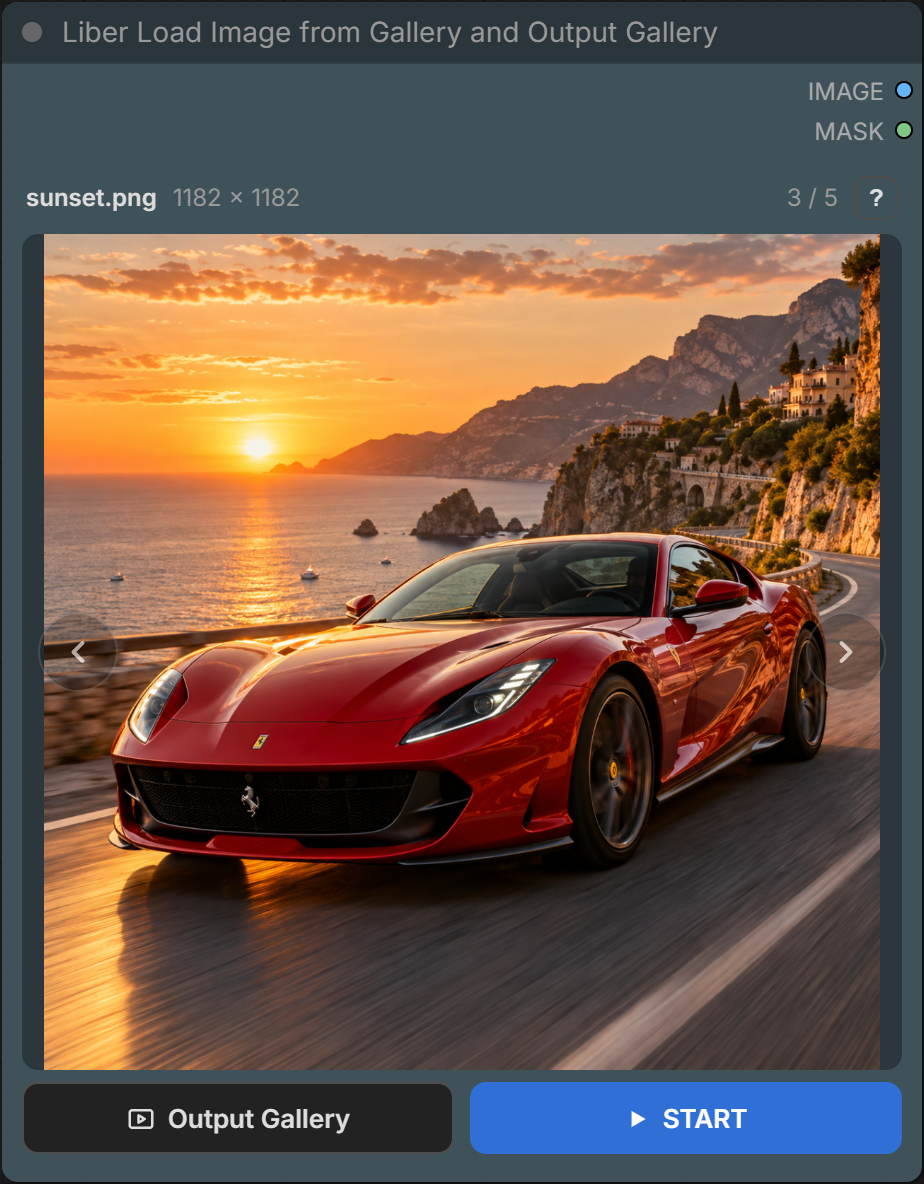
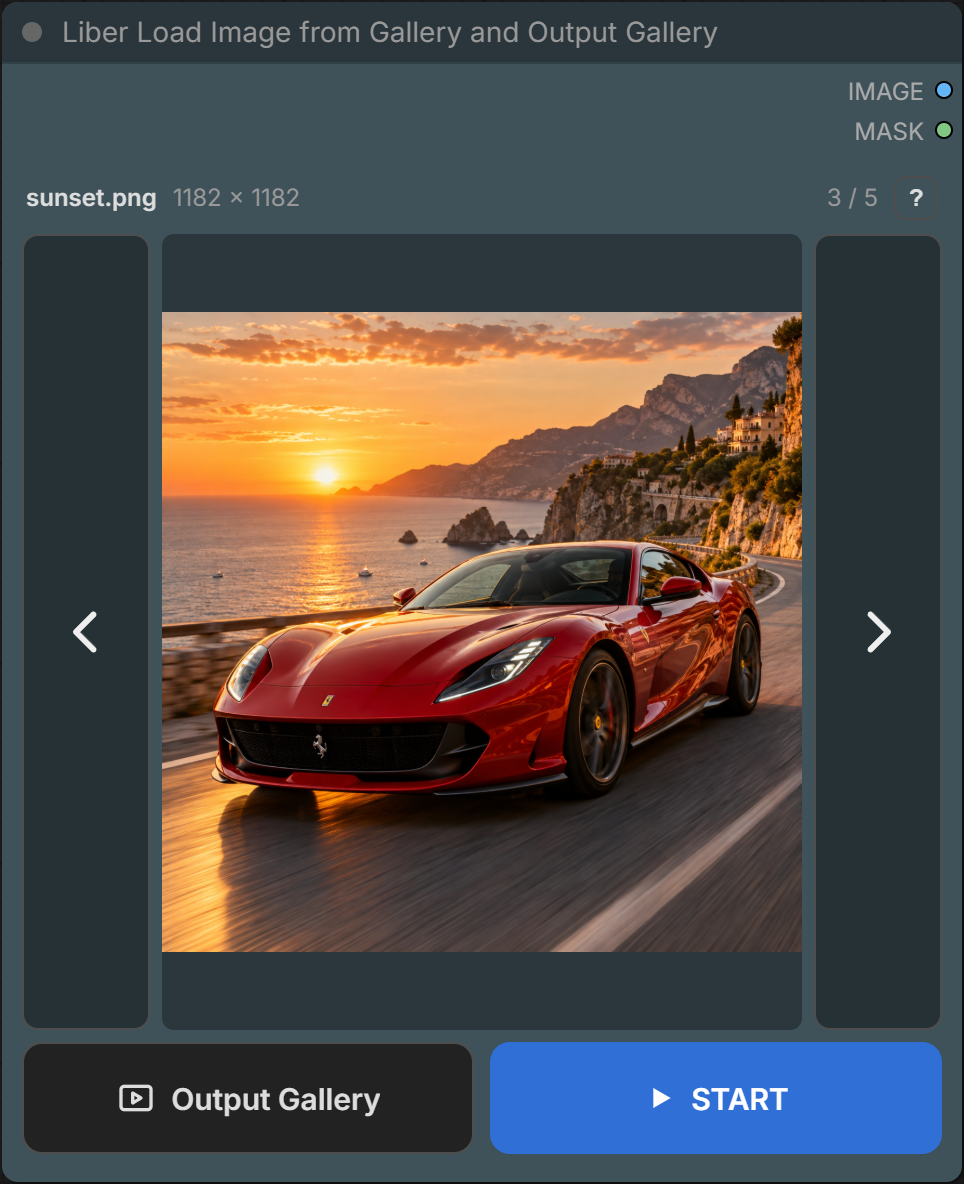
Bring back large browse, Output Gallery and START buttons
The node panel's ‹ › arrows were 40 px circles over the image edges,
hard to hit by touch (e.g. a tablet over RDP). They are now tall buttons
beside the image, as in the old canvas layout: full preview height, all
the free width beside the fitted image, at least 14% of the width
(44–110 px). Output Gallery and START are 56 px tall again with larger
text and icons; long labels end with an ellipsis. New nodes start at
420×500 so the image keeps its room.

diff --git a/web/node_panel.js b/web/node_panel.js
@@ -2,7 +2,7 @@
 // The node's whole UI as one HTML (DOM) widget, so it works the same on the
 // classic LiteGraph canvas and in Nodes 2.0 (Vue nodes):
 //   name · resolution · position  [?]
-//   the image (click: gallery, hold: ×5 zoom) with ‹ › arrows
+//   [‹]  the image (click: gallery, hold: ×5 zoom)  [›]
 //   [Output Gallery] [START]
 // The stock widgets stay on the node for serialization and behaviour but are
 // not drawn on it: the image combo and upload button remain in the properties
@@ -15,8 +15,11 @@ const START_WIDGET = "▶ СТАРТ";
 const OUTPUT_WIDGET = "Галерея output";
 const PREVIEW_WIDGET = "$$canvas-image-preview";
 const MIN_PANEL_HEIGHT = 240;
-const DEFAULT_SIZE = [400, 460];
+const DEFAULT_SIZE = [420, 500];
 const CHANGE_CHECK_MS = 400;
+// The ‹ › buttons take the stage's full height and all the width beside the
+// fitted image, but never less than this share of the stage (and 44–110 px).
+const SIDE_SHARE = 0.14, SIDE_MIN_PX = 44, SIDE_MAX_PX = 110, SIDE_GAP = 6;
 
 const TEXT = {
     ru: { output: "Галерея output", start: "СТАРТ", help: "Инструкция", prev: "Предыдущее изображение", next: "Следующее изображение",
@@ -37,17 +40,22 @@ function injectStyles() {
 .cig-np-pos{margin-left:auto}
 .cig-np-help{flex:none;width:22px;height:22px;padding:0;border:1px solid var(--border-color,#5a5a5a);border-radius:6px;background:transparent;color:var(--input-text,#ddd);font:700 12px/20px Arial,sans-serif;cursor:pointer}
 .cig-np-help:hover{border-color:var(--input-text,#ddd)}
-.cig-np-stage{position:relative;flex:1 1 auto;min-height:120px;border-radius:8px;background:rgba(0,0,0,.32);overflow:hidden;display:flex;align-items:center;justify-content:center;cursor:pointer;-webkit-touch-callout:none;user-select:none}
-.cig-np-stage img{max-width:100%;max-height:100%;width:auto;height:auto;object-fit:contain;display:block;-webkit-user-drag:none;pointer-events:none}
+.cig-np-stage{--cig-np-side:44px;position:relative;flex:1 1 auto;min-height:120px;cursor:pointer;-webkit-touch-callout:none;user-select:none}
+.cig-np-view{position:absolute;top:0;bottom:0;left:calc(var(--cig-np-side) + ${SIDE_GAP}px);right:calc(var(--cig-np-side) + ${SIDE_GAP}px);border-radius:6px;background:rgba(0,0,0,.32);overflow:hidden;display:flex;align-items:center;justify-content:center}
+.cig-np-view img{width:100%;height:100%;object-fit:contain;display:block;-webkit-user-drag:none;pointer-events:none}
 .cig-np-empty{padding:12px;color:var(--descrip-text,#a3a3a3);text-align:center}
-.cig-np-arrow{position:absolute;top:50%;width:40px;height:40px;margin-top:-20px;padding:0;border:1px solid rgba(255,255,255,.24);border-radius:50%;background:rgba(10,10,10,.45);color:#fff;display:flex;align-items:center;justify-content:center;cursor:pointer;opacity:.6;transition:opacity .12s,background .12s}
-.cig-np-stage:hover .cig-np-arrow{opacity:1}
-.cig-np-arrow:hover{background:rgba(10,10,10,.72);border-color:#5b9bff}
-.cig-np-arrow:disabled{opacity:.18;cursor:default}
-.cig-np-prev{left:8px}.cig-np-next{right:8px}
+.cig-np-arrow{position:absolute;top:0;bottom:0;width:var(--cig-np-side);padding:0;border:1px solid var(--border-color,#4e4e4e);border-radius:8px;background:rgba(0,0,0,.4);color:#eee;display:flex;align-items:center;justify-content:center;cursor:pointer;touch-action:manipulation;transition:background .12s,border-color .12s}
+.cig-np-arrow:hover{background:rgba(0,0,0,.62);border-color:#5b9bff;color:#fff}
+.cig-np-arrow:active{background:rgba(91,155,255,.24)}
+.cig-np-arrow:disabled{opacity:.35;cursor:default;background:rgba(0,0,0,.25);border-color:var(--border-color,#4e4e4e)}
+.cig-np-arrow svg{width:min(30px,60%);height:auto}
+.cig-np-prev{left:0}.cig-np-next{right:0}
 .cig-np-actions{display:flex;gap:8px;flex:none}
-.cig-np-btn{flex:1 1 0;min-width:0;height:36px;border:1px solid var(--border-color,#4e4e4e);border-radius:8px;background:var(--comfy-input-bg,#222);color:var(--input-text,#ddd);font:600 13px Inter,Arial,sans-serif;cursor:pointer;display:inline-flex;align-items:center;justify-content:center;gap:6px;white-space:nowrap;overflow:hidden}
+.cig-np-btn{flex:1 1 0;min-width:0;height:56px;padding:0 8px;border:1px solid var(--border-color,#4e4e4e);border-radius:10px;background:var(--comfy-input-bg,#222);color:var(--input-text,#ddd);font:600 15px Inter,Arial,sans-serif;cursor:pointer;display:inline-flex;align-items:center;justify-content:center;gap:8px;white-space:nowrap;overflow:hidden;touch-action:manipulation}
 .cig-np-btn:hover{filter:brightness(1.18)}
+.cig-np-btn:active{filter:brightness(.92)}
+.cig-np-btn svg{flex:none}
+.cig-np-label{min-width:0;overflow:hidden;text-overflow:ellipsis}
 .cig-np-btn.cig-np-start{background:#2f6fd6;border-color:#2f6fd6;color:#fff}
 .cig-np-btn:disabled{opacity:.45;cursor:default;filter:none}
 `;
@@ -122,14 +130,13 @@ export function installNodePanel(node, deps) {
             <button type="button" class="cig-np-help" title="${t.help}" aria-label="${t.help}">?</button>
         </div>
         <div class="cig-np-stage" role="button" tabindex="0" title="${t.open}" aria-label="${t.open}">
-            <img alt="" draggable="false">
-            <div class="cig-np-empty"></div>
-            <button type="button" class="cig-np-arrow cig-np-prev" aria-label="${t.prev}" title="${t.prev}"><svg width="18" height="18" viewBox="0 0 24 24" fill="none" stroke="currentColor" stroke-width="2.6" stroke-linecap="round" stroke-linejoin="round" aria-hidden="true"><path d="m15 6-6 6 6 6"/></svg></button>
-            <button type="button" class="cig-np-arrow cig-np-next" aria-label="${t.next}" title="${t.next}"><svg width="18" height="18" viewBox="0 0 24 24" fill="none" stroke="currentColor" stroke-width="2.6" stroke-linecap="round" stroke-linejoin="round" aria-hidden="true"><path d="m9 6 6 6-6 6"/></svg></button>
+            <button type="button" class="cig-np-arrow cig-np-prev" aria-label="${t.prev}" title="${t.prev}"><svg viewBox="0 0 24 24" fill="none" stroke="currentColor" stroke-width="2.4" stroke-linecap="round" stroke-linejoin="round" aria-hidden="true"><path d="m15 5-7 7 7 7"/></svg></button>
+            <div class="cig-np-view"><img alt="" draggable="false"><div class="cig-np-empty"></div></div>
+            <button type="button" class="cig-np-arrow cig-np-next" aria-label="${t.next}" title="${t.next}"><svg viewBox="0 0 24 24" fill="none" stroke="currentColor" stroke-width="2.4" stroke-linecap="round" stroke-linejoin="round" aria-hidden="true"><path d="m9 5 7 7-7 7"/></svg></button>
         </div>
         <div class="cig-np-actions">
-            <button type="button" class="cig-np-btn cig-np-output"><svg width="15" height="15" viewBox="0 0 24 24" fill="none" stroke="currentColor" stroke-width="2" stroke-linejoin="round" aria-hidden="true"><rect x="3" y="5" width="18" height="14" rx="2"/><path d="m10 9 5 3-5 3z"/></svg>${t.output}</button>
-            <button type="button" class="cig-np-btn cig-np-start"><svg width="13" height="13" viewBox="0 0 24 24" fill="currentColor" aria-hidden="true"><path d="M7 4.5v15l13-7.5z"/></svg>${t.start}</button>
+            <button type="button" class="cig-np-btn cig-np-output"><svg width="20" height="20" viewBox="0 0 24 24" fill="none" stroke="currentColor" stroke-width="2" stroke-linejoin="round" aria-hidden="true"><rect x="3" y="5" width="18" height="14" rx="2"/><path d="m10 9 5 3-5 3z"/></svg><span class="cig-np-label">${t.output}</span></button>
+            <button type="button" class="cig-np-btn cig-np-start"><svg width="16" height="16" viewBox="0 0 24 24" fill="currentColor" aria-hidden="true"><path d="M7 4.5v15l13-7.5z"/></svg><span class="cig-np-label">${t.start}</span></button>
         </div>`;
     const q = s => el.querySelector(s);
     const nameEl = q(".cig-np-name"), dimsEl = q(".cig-np-dims"), posEl = q(".cig-np-pos");
@@ -171,19 +178,44 @@ export function installNodePanel(node, deps) {
                 img.style.display = "none";
                 emptyEl.style.display = "";
                 emptyEl.textContent = t.empty;
+                layoutSides();
             }
         }
         posEl.textContent = s.count > 1 && s.index >= 0 ? `${s.index + 1} / ${s.count}` : "";
         prev.disabled = next.disabled = !s.canNavigate;
     }
+    // Buttons fill the space beside the image, like the old canvas layout, so
+    // they stay large and easy to hit with a finger. Recomputed only on load
+    // and on stage resize.
+    let side = -1;
+    function layoutSides() {
+        const w = stage.clientWidth, h = stage.clientHeight;
+        if (!w || !h) return;
+        const min = Math.round(Math.min(SIDE_MAX_PX, Math.max(SIDE_MIN_PX, w * SIDE_SHARE)));
+        let next = min;
+        const nw = img.naturalWidth, nh = img.naturalHeight;
+        if (nw && nh && img.style.display !== "none") {
+            const fit = Math.min((w - 2 * (min + SIDE_GAP)) / nw, h / nh);
+            next = Math.max(min, Math.floor((w - nw * fit) / 2 - SIDE_GAP));
+        }
+        if (next !== side) {
+            side = next;
+            stage.style.setProperty("--cig-np-side", `${side}px`);
+        }
+    }
+    const resizeObserver = typeof ResizeObserver === "function" ? new ResizeObserver(layoutSides) : null;
+    resizeObserver?.observe(stage);
+
     img.addEventListener("load", () => {
         if (img.naturalWidth) dimsEl.textContent = `${img.naturalWidth} × ${img.naturalHeight}`;
+        layoutSides();
     });
     img.addEventListener("error", () => {
         if (!shownValue) return;
         img.style.display = "none";
         emptyEl.style.display = "";
         emptyEl.textContent = t.failed;
+        layoutSides();
     });
 
     // --- interaction
@@ -229,6 +261,7 @@ export function installNodePanel(node, deps) {
     const originalRemoved = node.onRemoved;
     node.onRemoved = function(...args) {
         clearInterval(timer);
+        resizeObserver?.disconnect();
         unsubscribe?.();
         for (const [method, original, wrapper] of wrapped) if (node[method] === wrapper) node[method] = original;
         delete node.__cigNodePanel;

diff --git a/web/help_scenarios.js b/web/help_scenarios.js
@@ -36,10 +36,10 @@ const EN = {
         {
             n: 2, title: "Browse images right in the node",
             steps: [
-                "Click **‹** or **›** on the sides of the node preview.",
+                "Click or tap **‹** or **›** — the tall buttons on the sides of the node preview.",
             ],
             notes: [
-                "The arrows follow the gallery's sorting and favorites. They are dimmed when there are fewer than two images to browse. The line above the image shows the position, e.g. **3 / 12**.",
+                "The arrows follow the gallery's sorting and favorites. The buttons fill the space beside the image, so they are easy to hit with a finger; they are dimmed when there are fewer than two images to browse. The line above the image shows the position, e.g. **3 / 12**.",
                 "If the image was chosen with **Subfolders** on (scenario 7), the arrows walk the same list, subfolders included.",
             ],
         },
@@ -197,10 +197,10 @@ const RU = {
         {
             n: 2, title: "Листать изображения прямо в ноде",
             steps: [
-                "Нажимайте **‹** или **›** по бокам превью в ноде.",
+                "Нажимайте **‹** или **›** — высокие кнопки по бокам превью в ноде.",
             ],
             notes: [
-                "Стрелки следуют сортировке и избранному галереи. Если изображений меньше двух, стрелки приглушены. Строка над изображением показывает позицию, например **3 / 12**.",
+                "Стрелки следуют сортировке и избранному галереи. Кнопки занимают всё место по бокам изображения, в них легко попасть пальцем; если изображений меньше двух, они приглушены. Строка над изображением показывает позицию, например **3 / 12**.",
                 "Если изображение выбрано при включённых **Подпапках** (сценарий 7), стрелки листают тот же список вместе с подпапками.",
             ],
         },

diff --git a/README_RU.md b/README_RU.md
@@ -38,9 +38,9 @@
 
 ### Сценарий 2. Листать изображения прямо в ноде
 
-1. Нажимайте **‹** (предыдущее) или **›** (следующее) по бокам превью в ноде.
+1. Нажимайте **‹** (предыдущее) или **›** (следующее) — высокие кнопки по бокам превью в ноде.
 
-Список файлов загружается автоматически при открытии workflow и смене изображения — предварительно открывать галерею не нужно. Стрелки следуют сортировке и избранному галереи. Если листать нечего (изображений меньше двух), стрелки приглушены; они стоят по бокам области изображения при любых его пропорциях. Строка над изображением показывает позицию, например **3 / 12**.
+Список файлов загружается автоматически при открытии workflow и смене изображения — предварительно открывать галерею не нужно. Стрелки следуют сортировке и избранному галереи. Кнопки занимают всю высоту превью и всё свободное место по бокам изображения, поэтому в них легко попасть мышью или пальцем; если листать нечего (изображений меньше двух), они приглушены. Строка над изображением показывает позицию, например **3 / 12**.
 
 Если изображение выбрано при включённых **Подпапках** (сценарий 7), стрелки листают тот же список вместе с подпапками.
 

diff --git a/README.md b/README.md
@@ -38,9 +38,9 @@ The image is loaded into the node and the gallery closes. The **✕** button clo
 
 ### Scenario 2. Browse images right in the node
 
-1. Click **‹** (previous) or **›** (next) on the sides of the node preview.
+1. Click or tap **‹** (previous) or **›** (next) — the tall buttons on the sides of the node preview.
 
-The file list loads automatically when the workflow opens or the image changes — you do not need to open the gallery first. The arrows follow the gallery's sorting and favorites. They are dimmed when there are fewer than two images to browse; they sit on the sides of the image area whatever its aspect ratio. The line above the image shows the position, e.g. **3 / 12**.
+The file list loads automatically when the workflow opens or the image changes — you do not need to open the gallery first. The arrows follow the gallery's sorting and favorites. The buttons take the full height of the preview and fill the free space beside the image, so they are easy to hit with a mouse or a finger; they are dimmed when there are fewer than two images to browse. The line above the image shows the position, e.g. **3 / 12**.
 
 If the image was chosen with **Subfolders** on (scenario 7), the arrows walk the same list, subfolders included.
 
